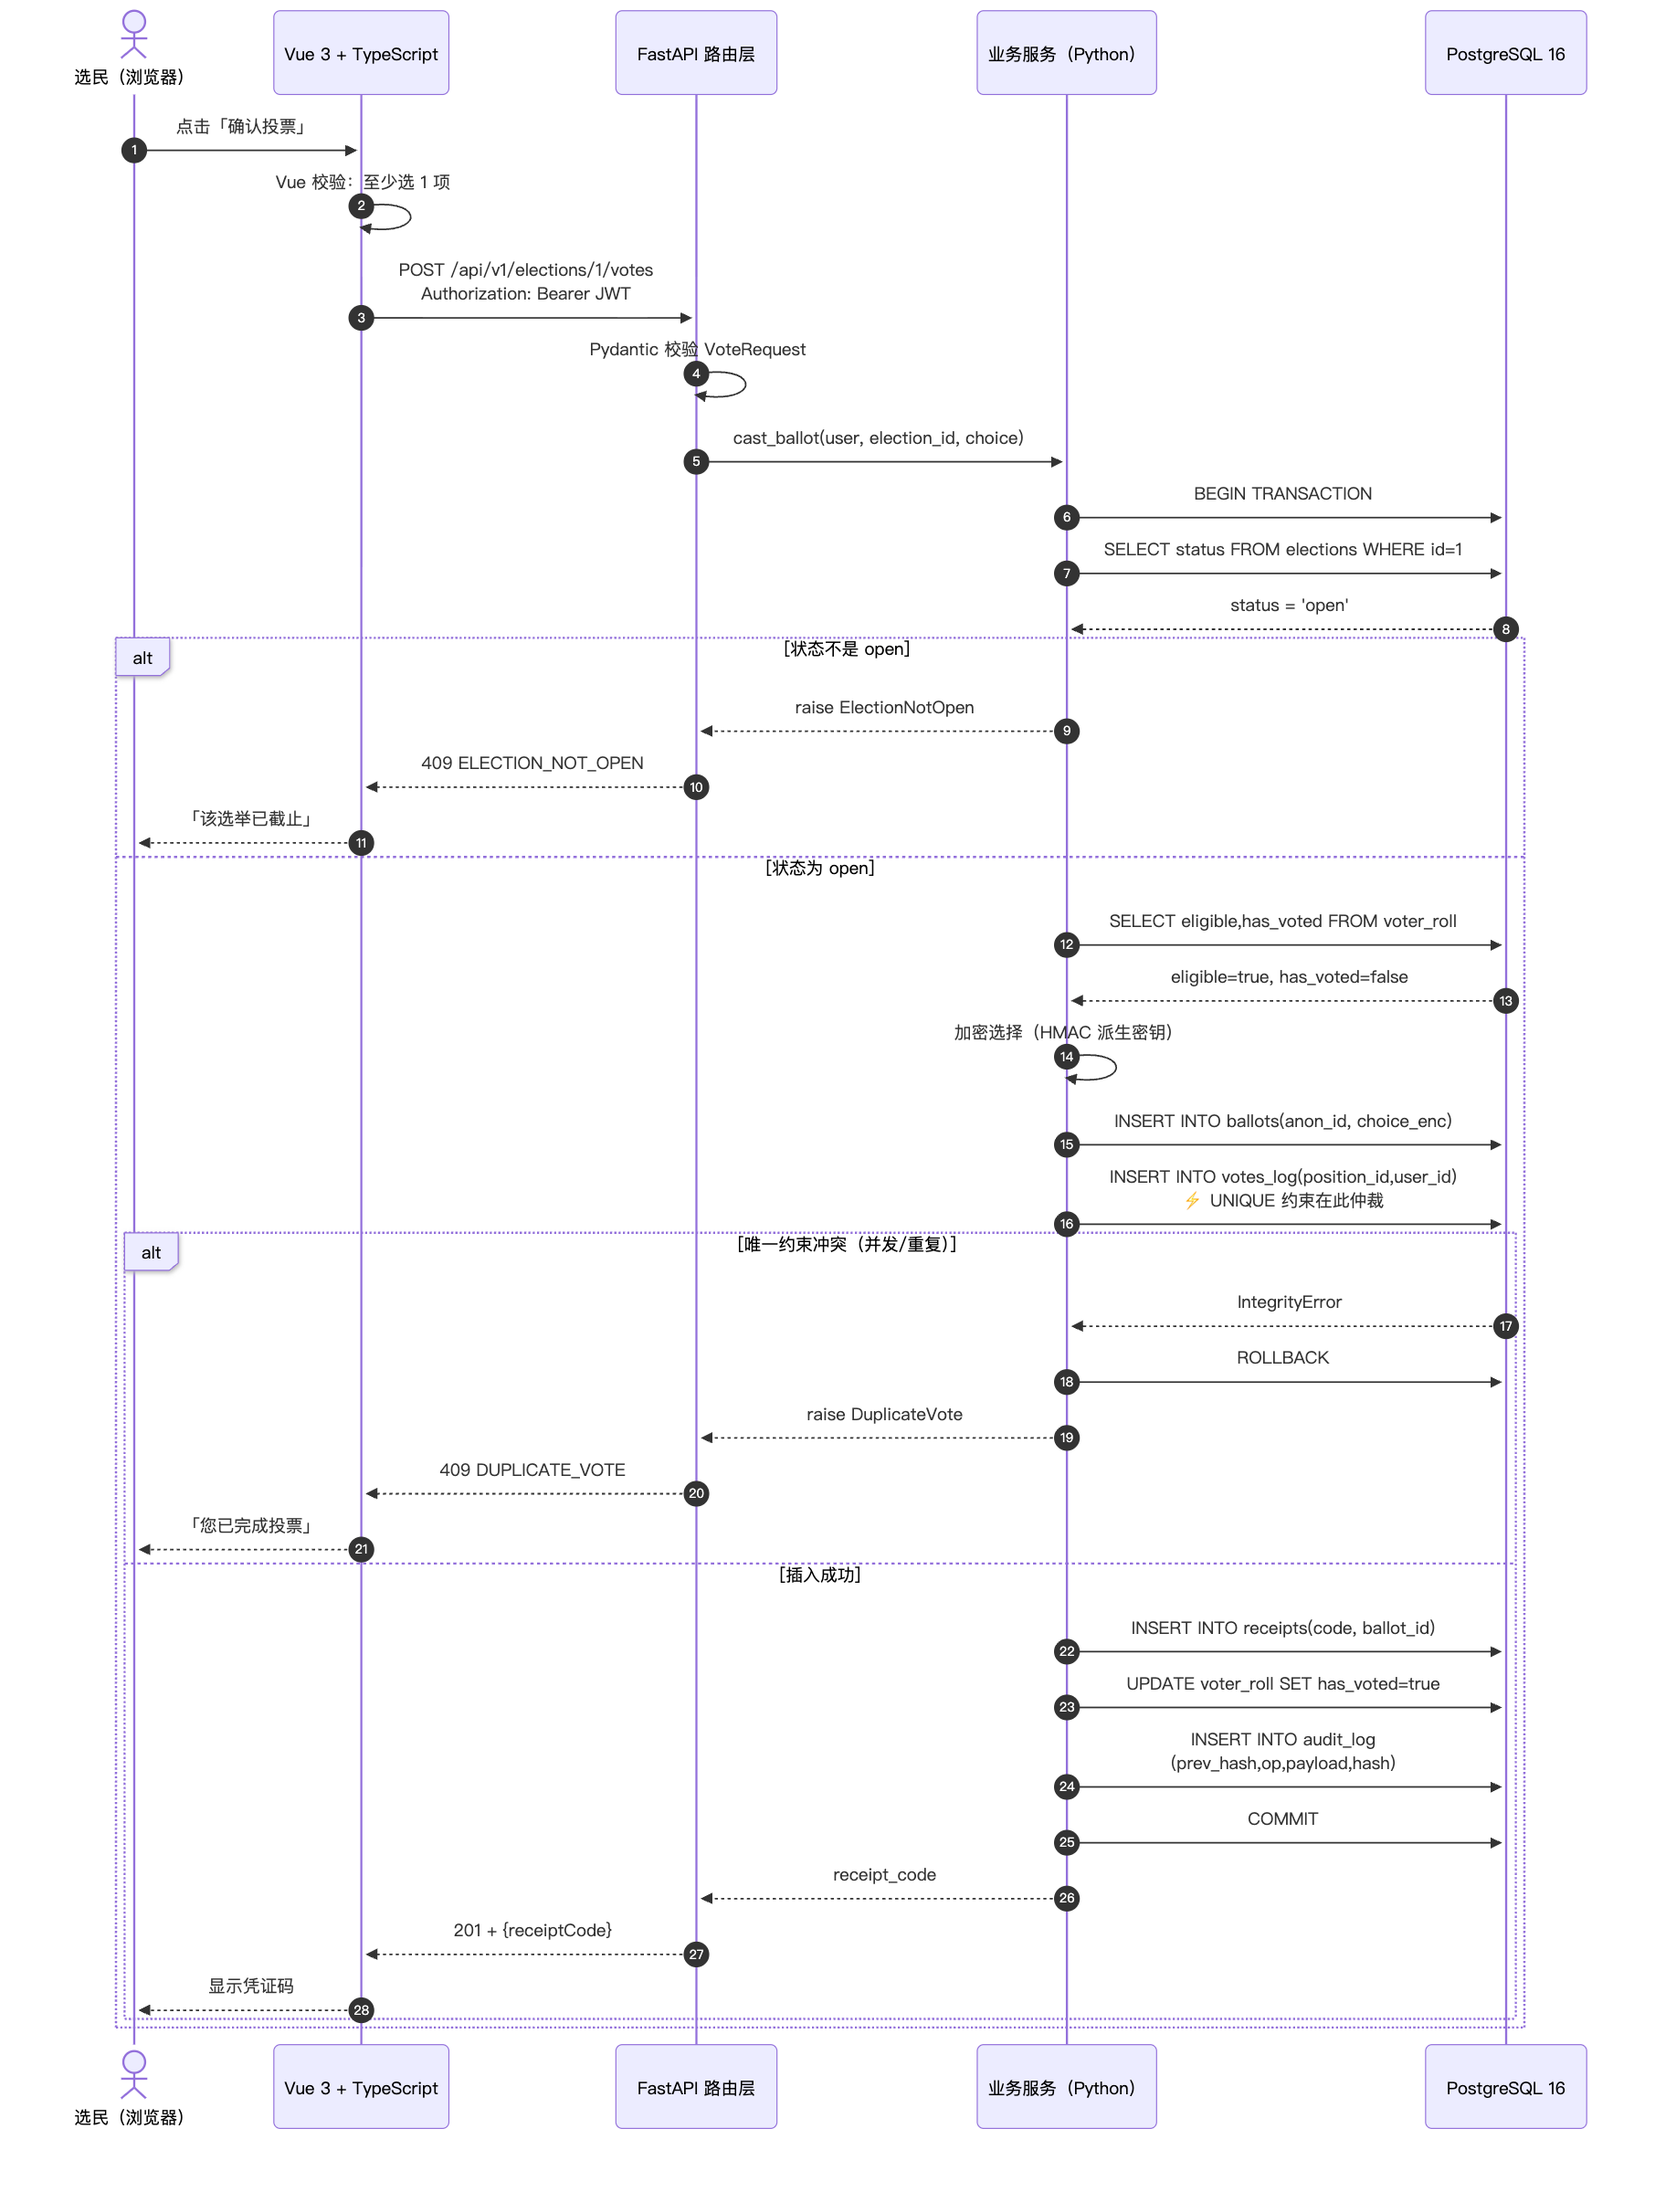
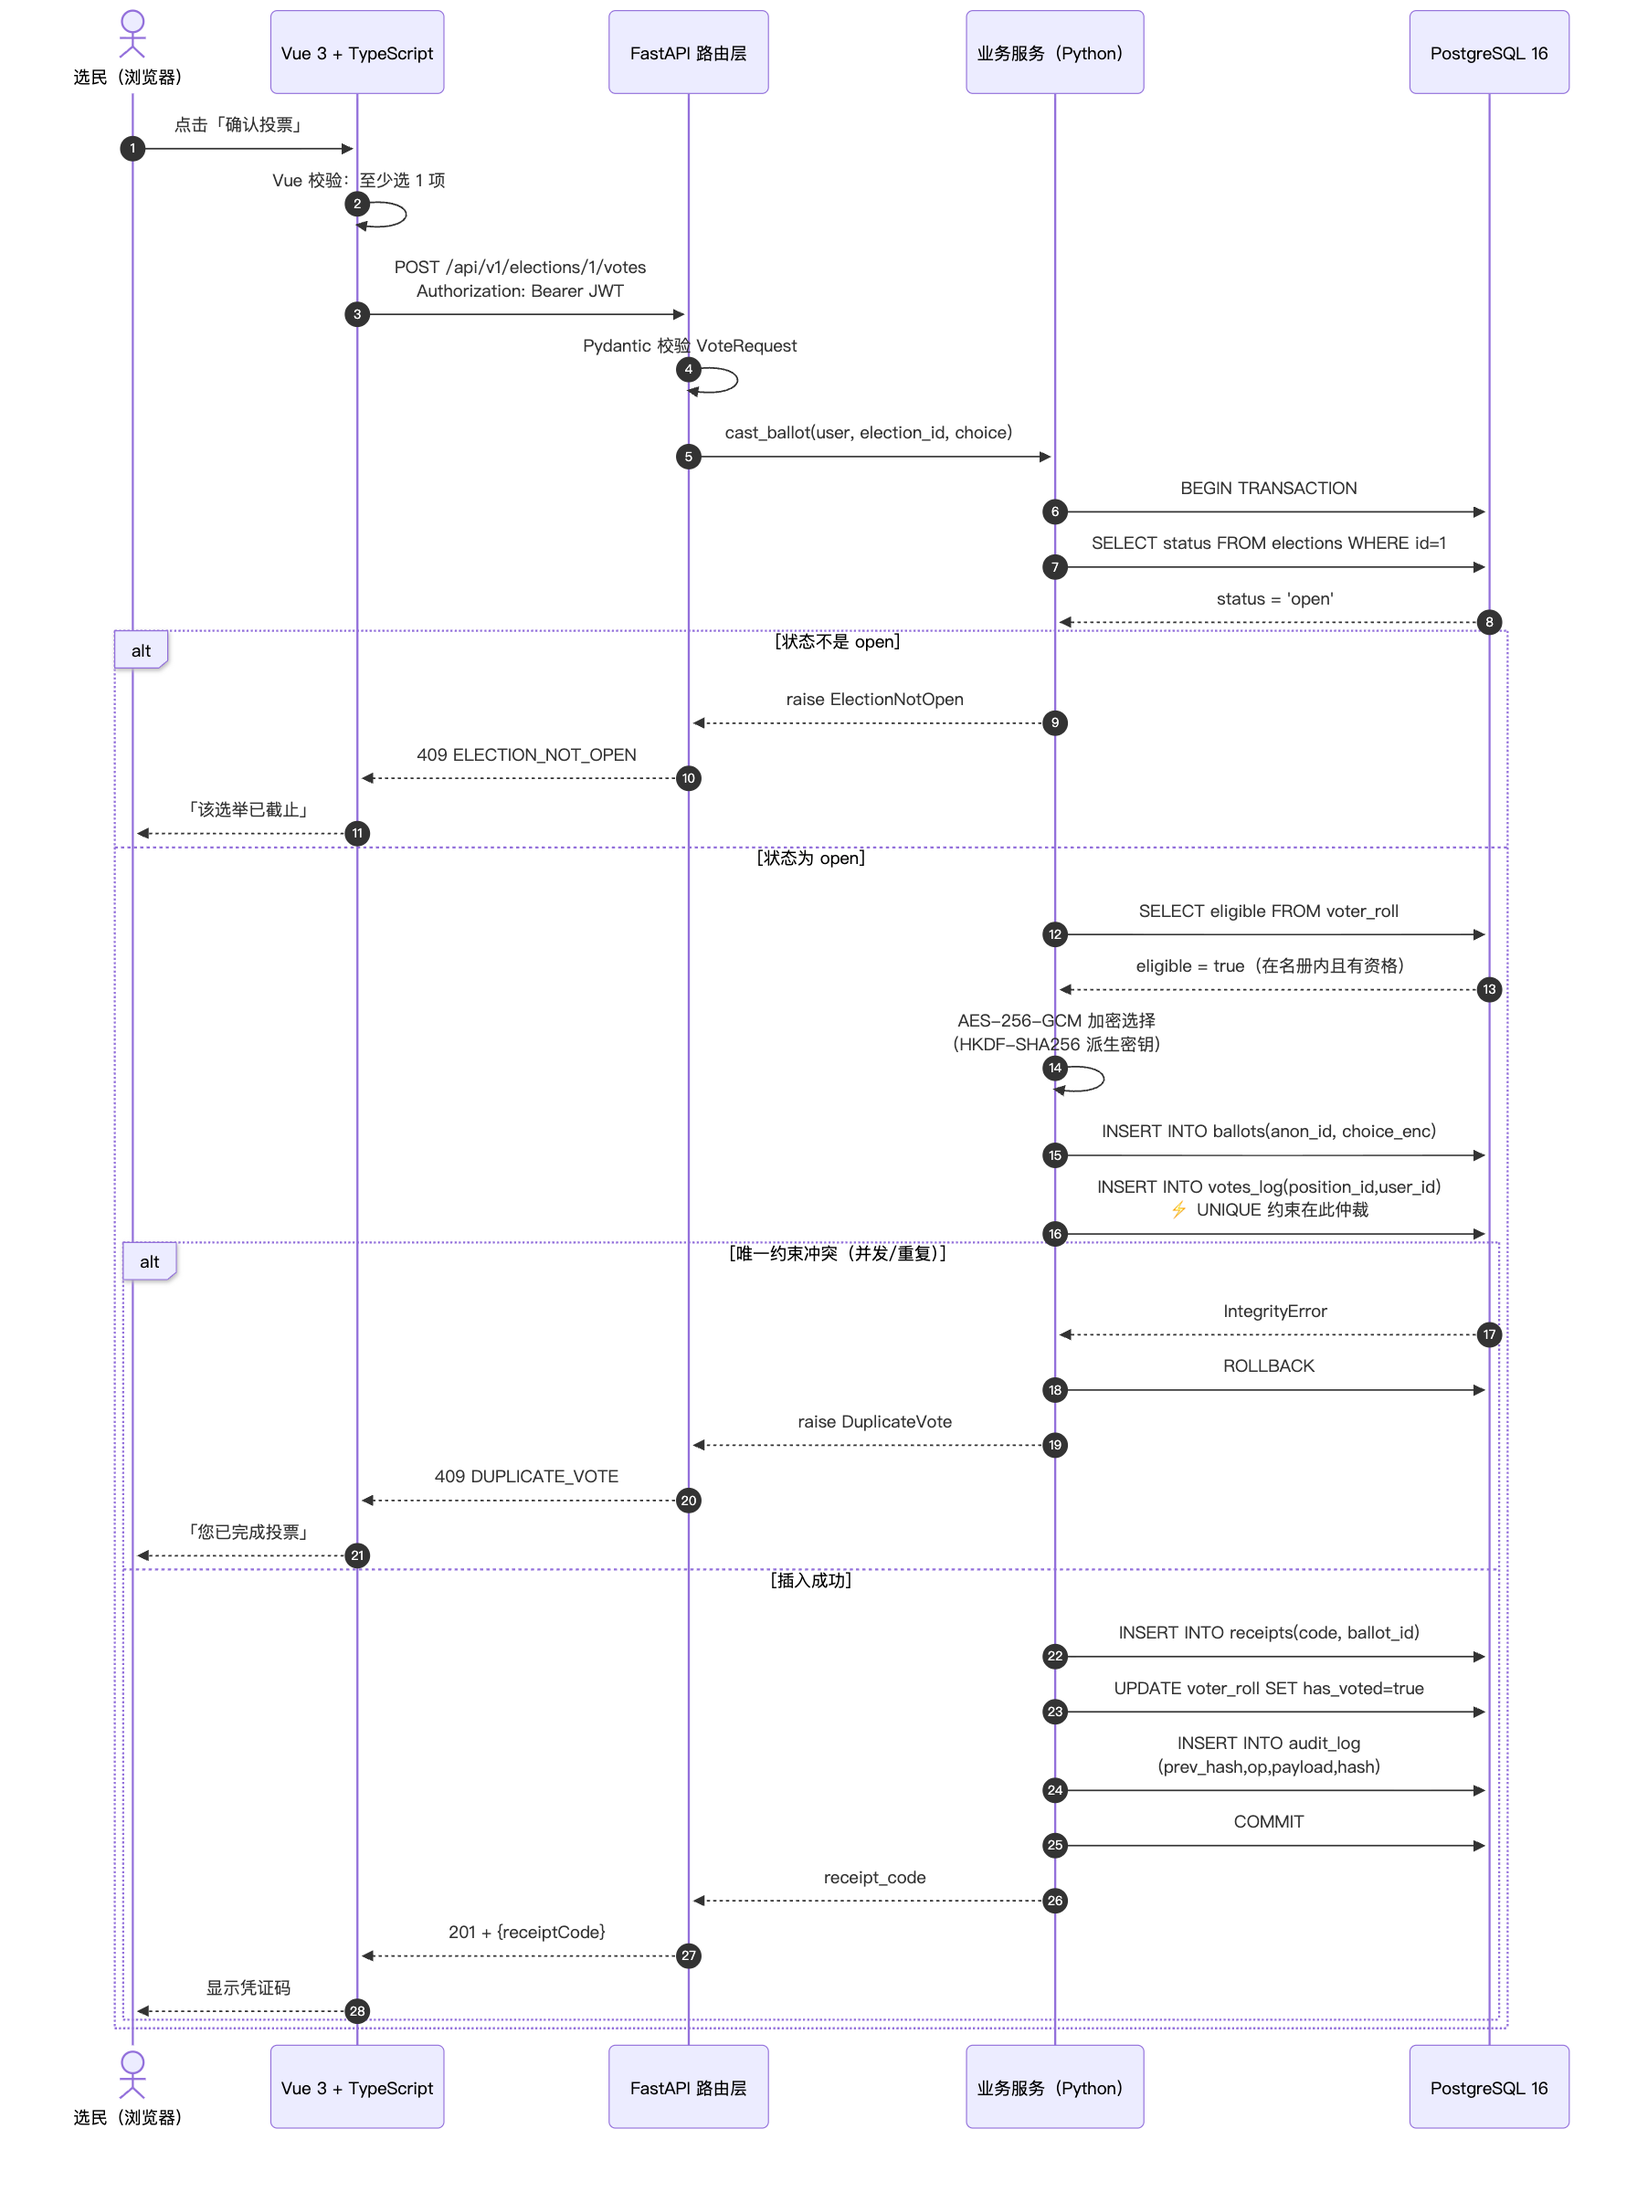
docs: 流程图与文档同步 FastAPI 实现（修正 5 处过时描述）
【本次更改内容】

1. 投票事务时序图（detailed/03-vote-transaction.png）
   - 加密方式：HMAC 派生密钥 → AES-256-GCM（HKDF-SHA256 派生子密钥）
   - 去掉 has_voted 预检查询：实际由 votes_log 的 UNIQUE 约束仲裁，
     图中原先的 check-then-act 画法与实现相反

2. 总览图（detailed/00-overview.png / .svg）
   - 登录步骤：查 voter_roll → 查 users 表（voter_roll 在选举列表时查询）
   - 密码校验：passlib + bcrypt → bcrypt 验密
   - 资格判断：名册内且未投票 → 在名册内且 eligible
   - 选票写入：加密选择 → anon_id + AES-GCM 密文

3. 投票主流程图（docs/02 文档内源码）
   - 登录字段：PIN → 密码
   - 鉴权库：passlib → 直接调用 bcrypt

4. 技术选型表（docs/01、docs/02）
   - 后端鉴权依赖更正为 python-jose + bcrypt

5. 补回 00-overview 的 Mermaid 源码
   - 此前该图在临时目录渲染，源码未入库，无法维护
   - 现与其他 4 张图统一放在 docs/02-flowchart-with-tech-stack.md

【说明】
白话版图（simple/）未改动：其描述的是使用者视角的行为与结果，
结论（重复投票被拒、截止后不能投）仍然正确，只是实现机制不同。

【验证】
图与源码一一对应（文档 5 个 Mermaid 块 ↔ 4 张详细版 PNG + 1 张未单独导出的流程图）；
全文档扫描 passlib / HMAC / PIN 残留均为 0。

diff --git a/docs/02-flowchart-with-tech-stack.md b/docs/02-flowchart-with-tech-stack.md
@@ -55,6 +55,79 @@ flowchart TB
 
 ---
 
+## 〇、总览图（流程 + 技术栈合一，汇报 / 发给开发者用）
+
+> 对应渲染产物：`diagrams/detailed/00-overview.png` 与 `.svg`。
+> 这张图把 5 个阶段与每段用的技术放在一起，适合一页讲完整个系统。
+
+```mermaid
+---
+title: 选举管理与投票系统 — 系统流程与技术栈（前端 Vue 3 + TypeScript ｜ 后端 Python + FastAPI）
+---
+flowchart TB
+    classDef fe fill:#e8efff,stroke:#2f5bd7,stroke-width:2px,color:#1b2438
+    classDef be fill:#e9f7ef,stroke:#0f9d58,stroke-width:2px,color:#1b2438
+    classDef db fill:#fdf0e3,stroke:#d97706,stroke-width:2px,color:#1b2438
+    classDef err fill:#fdecec,stroke:#d64545,stroke-width:1.5px,color:#a32b2b
+
+    subgraph P1["① 登录（前端 Vue 3 + TypeScript → 后端 Python + FastAPI）"]
+        direction LR
+        A1["输入学号与密码<br/>Vue 3 + TypeScript"]:::fe
+        A2["POST /auth/login<br/>Axios"]:::fe
+        A3["Pydantic 校验<br/>bcrypt 验密"]:::be
+        A4["签发 JWT<br/>python-jose"]:::be
+        A5["查 users 表<br/>SQLAlchemy async + asyncpg"]:::db
+        A1 --> A2 --> A3
+        A3 --> A5
+        A3 --> A4
+    end
+
+    subgraph P2["② 选择选举"]
+        direction LR
+        B1["GET /elections<br/>Axios + Bearer JWT"]:::fe
+        B2["Depends 校验 JWT<br/>FastAPI"]:::be
+        B3["查名册内选举<br/>asyncpg"]:::db
+        B4["渲染选举卡片<br/>Pinia + Vue Router"]:::fe
+        B1 --> B2 --> B3 --> B4
+    end
+
+    subgraph P3["③ 投票校验"]
+        direction LR
+        C1["选候选人<br/>Vue 组件"]:::fe
+        C2["POST /votes<br/>Axios"]:::fe
+        C3{"选举状态<br/>== open ?"}:::be
+        C4{"在名册内<br/>且 eligible ?"}:::be
+        X["拒绝并回滚<br/>409 ELECTION_NOT_OPEN<br/>409 DUPLICATE_VOTE"]:::err
+        C1 --> C2 --> C3 -->|是| C4
+        C3 -->|否| X
+        C4 -->|否| X
+    end
+
+    subgraph P4["④ 写入（单事务 · SQLAlchemy 2.0）"]
+        direction LR
+        C5["INSERT ballots<br/>anon_id + AES-GCM 密文"]:::db
+        C6["INSERT votes_log<br/>UNIQUE 约束仲裁"]:::db
+        C7["生成 receipt 凭证码"]:::be
+        C8["写审计日志（哈希链）"]:::be
+        C9["COMMIT"]:::db
+        C5 --> C6 --> C7 --> C8 --> C9
+    end
+
+    subgraph P5["⑤ 核验与实时"]
+        direction LR
+        D1["GET /receipts/:code<br/>Axios"]:::fe
+        D2["仅返回 counted<br/>不回传选择内容"]:::be
+        D3["EventSource 订阅<br/>/events/turnout"]:::fe
+        D4["StreamingResponse<br/>SSE 推投票率"]:::be
+        D5["Redis Pub/Sub<br/>多实例广播"]:::db
+        D1 --> D2
+        D3 --> D4 --> D5
+    end
+
+    P1 --> P2 --> P3 --> P4 --> P5
+    C4 -->|是| C5
+```
+
 ## 二、投票主流程（逐步标注语言与框架）
 
 这是**一张图讲清整个系统怎么工作**：从浏览器点击到数据落库，每一步都标明用什么技术。
@@ -64,14 +137,14 @@ flowchart TD
     Start([选民打开浏览器]) --> S1
 
     subgraph FE1["前端 · Vue 3 + TypeScript"]
-        S1["输入学号与 PIN<br/>Vue 表单 + 前端校验"]
+        S1["输入学号与密码<br/>Vue 表单 + 前端校验"]
         S1 --> S2["Axios POST /api/v1/auth/login"]
     end
 
     subgraph BE1["后端 · FastAPI"]
         S2 --> S3["Pydantic 校验请求体"]
         S3 --> S4["查询 voter_roll 表<br/>SQLAlchemy async + asyncpg"]
-        S4 --> S5{"bcrypt 校验 PIN<br/>passlib"}
+        S4 --> S5{"bcrypt 校验密码"}
         S5 -->|失败| S6["返回 401<br/>统一错误码"]
         S5 -->|成功| S7["签发 JWT<br/>python-jose"]
     end
@@ -169,9 +242,9 @@ sequenceDiagram
         RT-->>FE: 409 ELECTION_NOT_OPEN
         FE-->>V: 「该选举已截止」
     else 状态为 open
-        SC->>DB: SELECT eligible,has_voted FROM voter_roll
-        DB-->>SC: eligible=true, has_voted=false
-        SC->>SC: 加密选择（HMAC 派生密钥）
+        SC->>DB: SELECT eligible FROM voter_roll
+        DB-->>SC: eligible = true（在名册内且有资格）
+        SC->>SC: AES-256-GCM 加密选择<br/>（HKDF-SHA256 派生密钥）
         SC->>DB: INSERT INTO ballots(anon_id, choice_enc)
         SC->>DB: INSERT INTO votes_log(position_id,user_id)<br/>⚡ UNIQUE 约束在此仲裁
 
@@ -241,7 +314,7 @@ flowchart LR
 | 数据库迁移 | **Alembic** | schema 版本化，团队协作必需 |
 | 主数据库 | **PostgreSQL 16** | **唯一约束**是"一人一票"的最终保证 |
 | 缓存 | **Redis 7** | 会话 + 结果缓存 + SSE 多实例 Pub/Sub |
-| 鉴权 | **python-jose + passlib[bcrypt]** | JWT 签发与密码哈希 |
+| 鉴权 | **python-jose + bcrypt** | JWT 签发与密码哈希（bcrypt 直接调用） |
 | 测试 | **pytest + pytest-asyncio + httpx** | 单元测试 + 异步接口测试 |
 | 容器 | **Docker Compose** | 一条命令起 PostgreSQL + Redis |
 

diff --git a/docs/01-project-plan.md b/docs/01-project-plan.md
@@ -328,7 +328,7 @@ flowchart LR
 | 后端驱动 | asyncpg | 0.29+ | PostgreSQL 异步驱动 |
 | 后端迁移 | Alembic | 1.x | 数据库版本管理 |
 | 后端服务器 | Uvicorn | 0.27+ | ASGI 服务器 |
-| 后端鉴权 | python-jose + passlib[bcrypt] | — | JWT / 密码哈希 |
+| 后端鉴权 | python-jose + bcrypt | — | JWT 签发 / 密码哈希（直接用 bcrypt） |
 | 数据库 | PostgreSQL | 16 | 主数据 + 唯一约束 |
 | 缓存 | Redis | 7 | 会话 / 缓存 / SSE 发布订阅 |
 | 测试 | pytest + pytest-asyncio + httpx | — | 单元与接口测试 |
